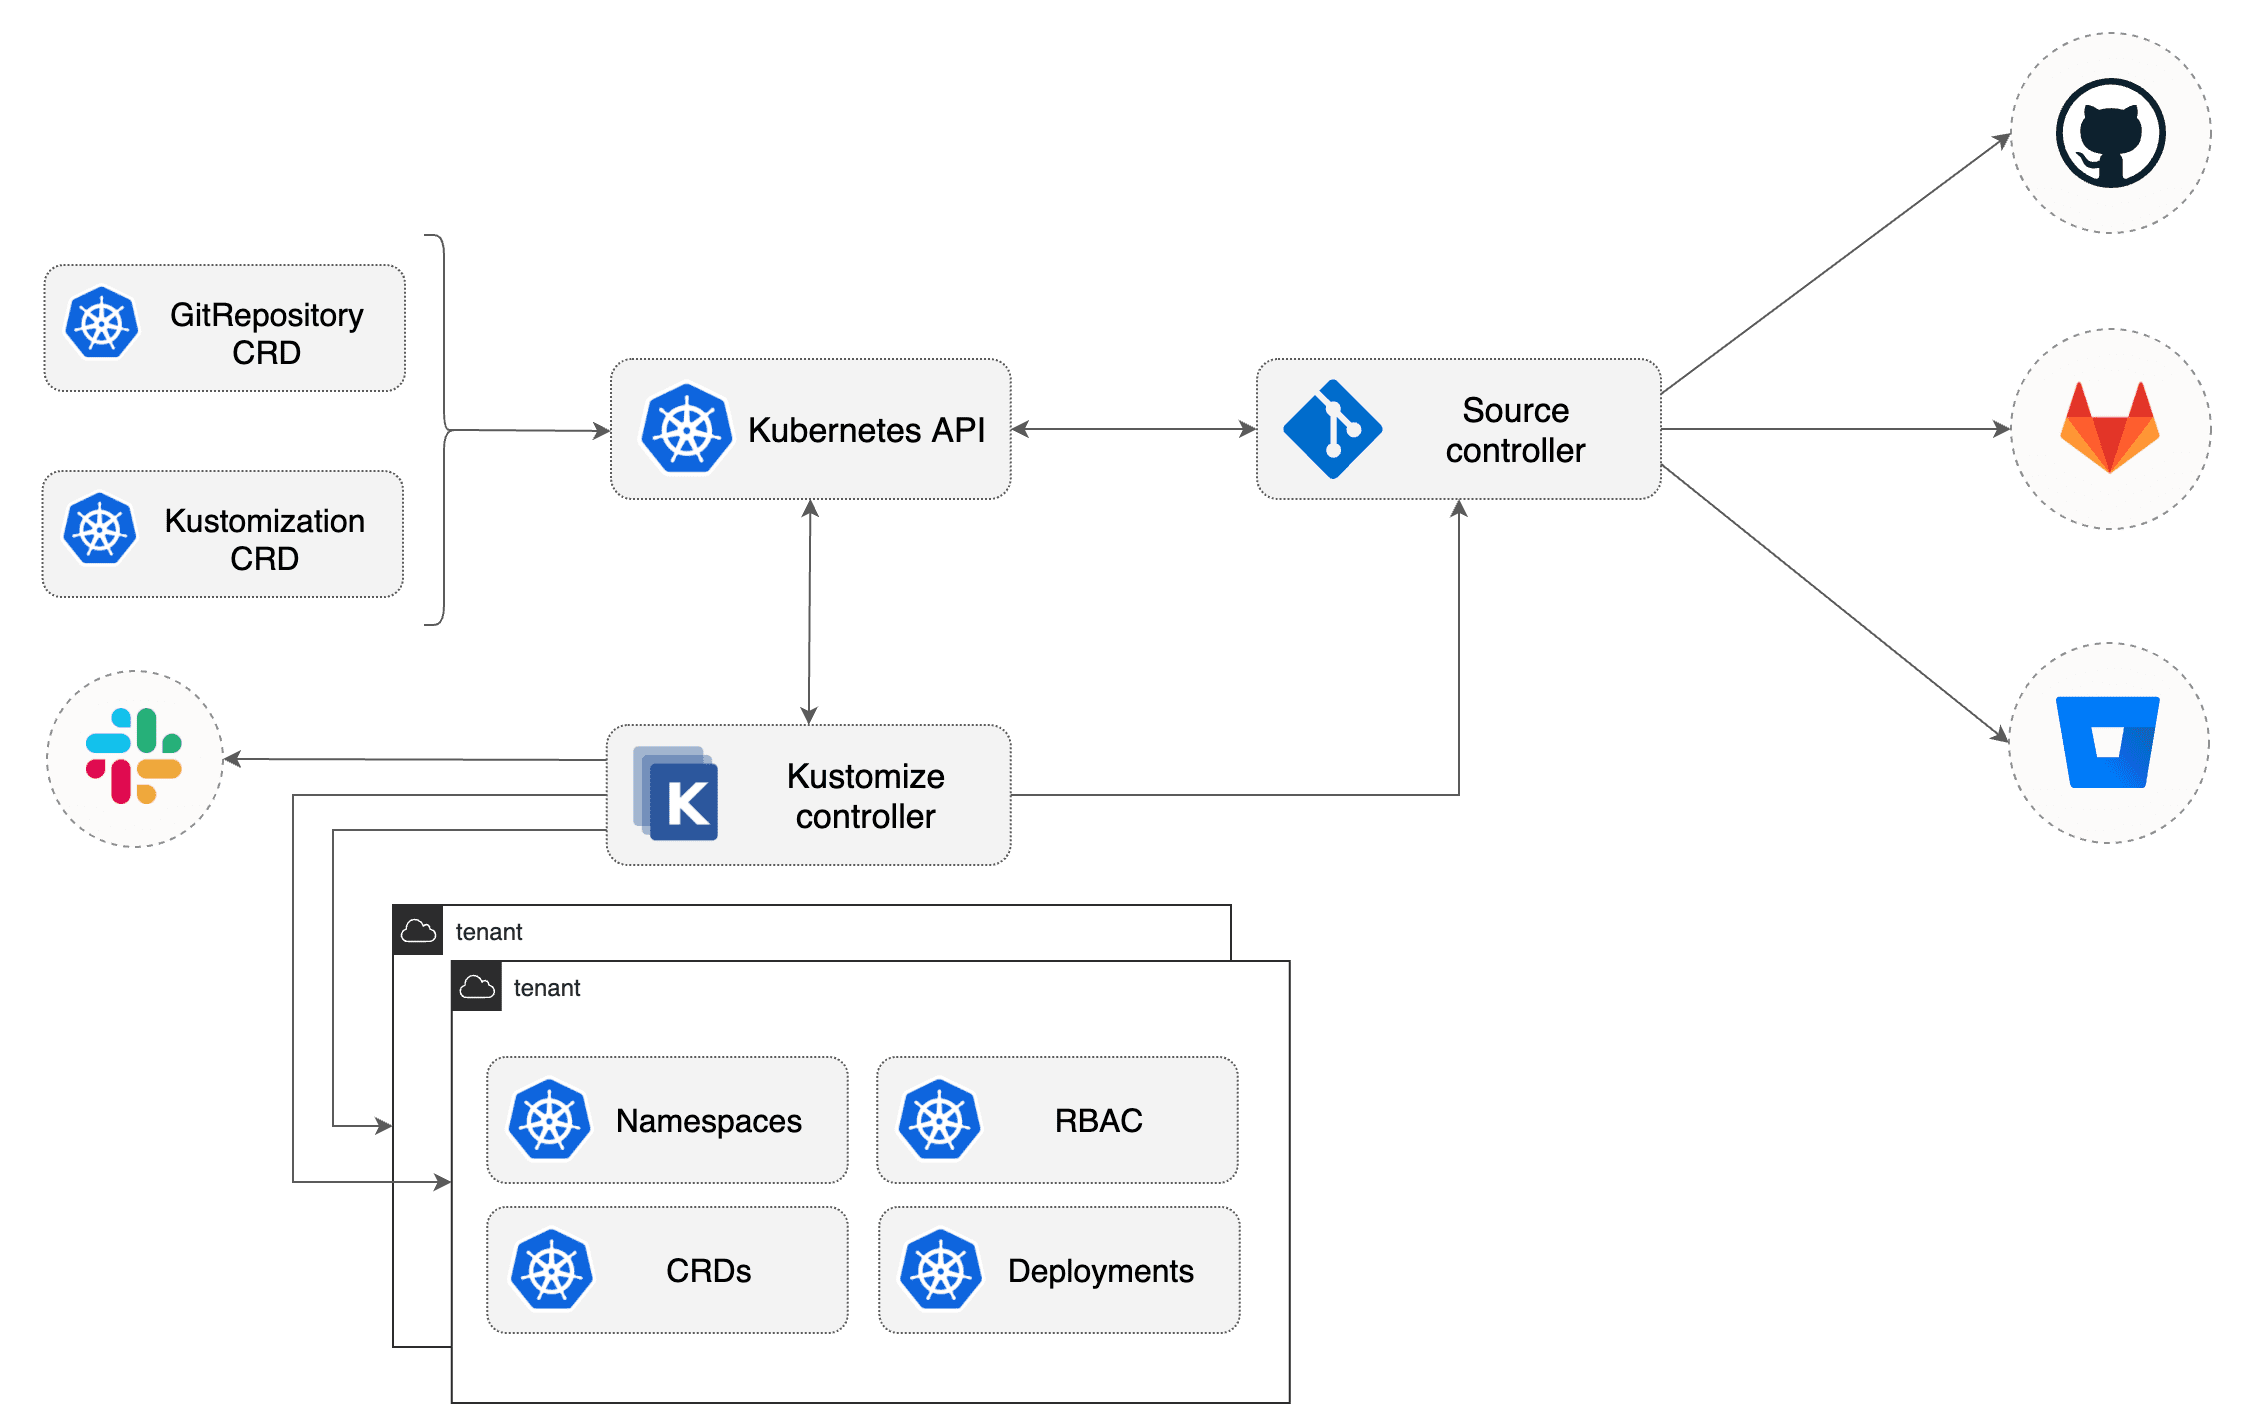
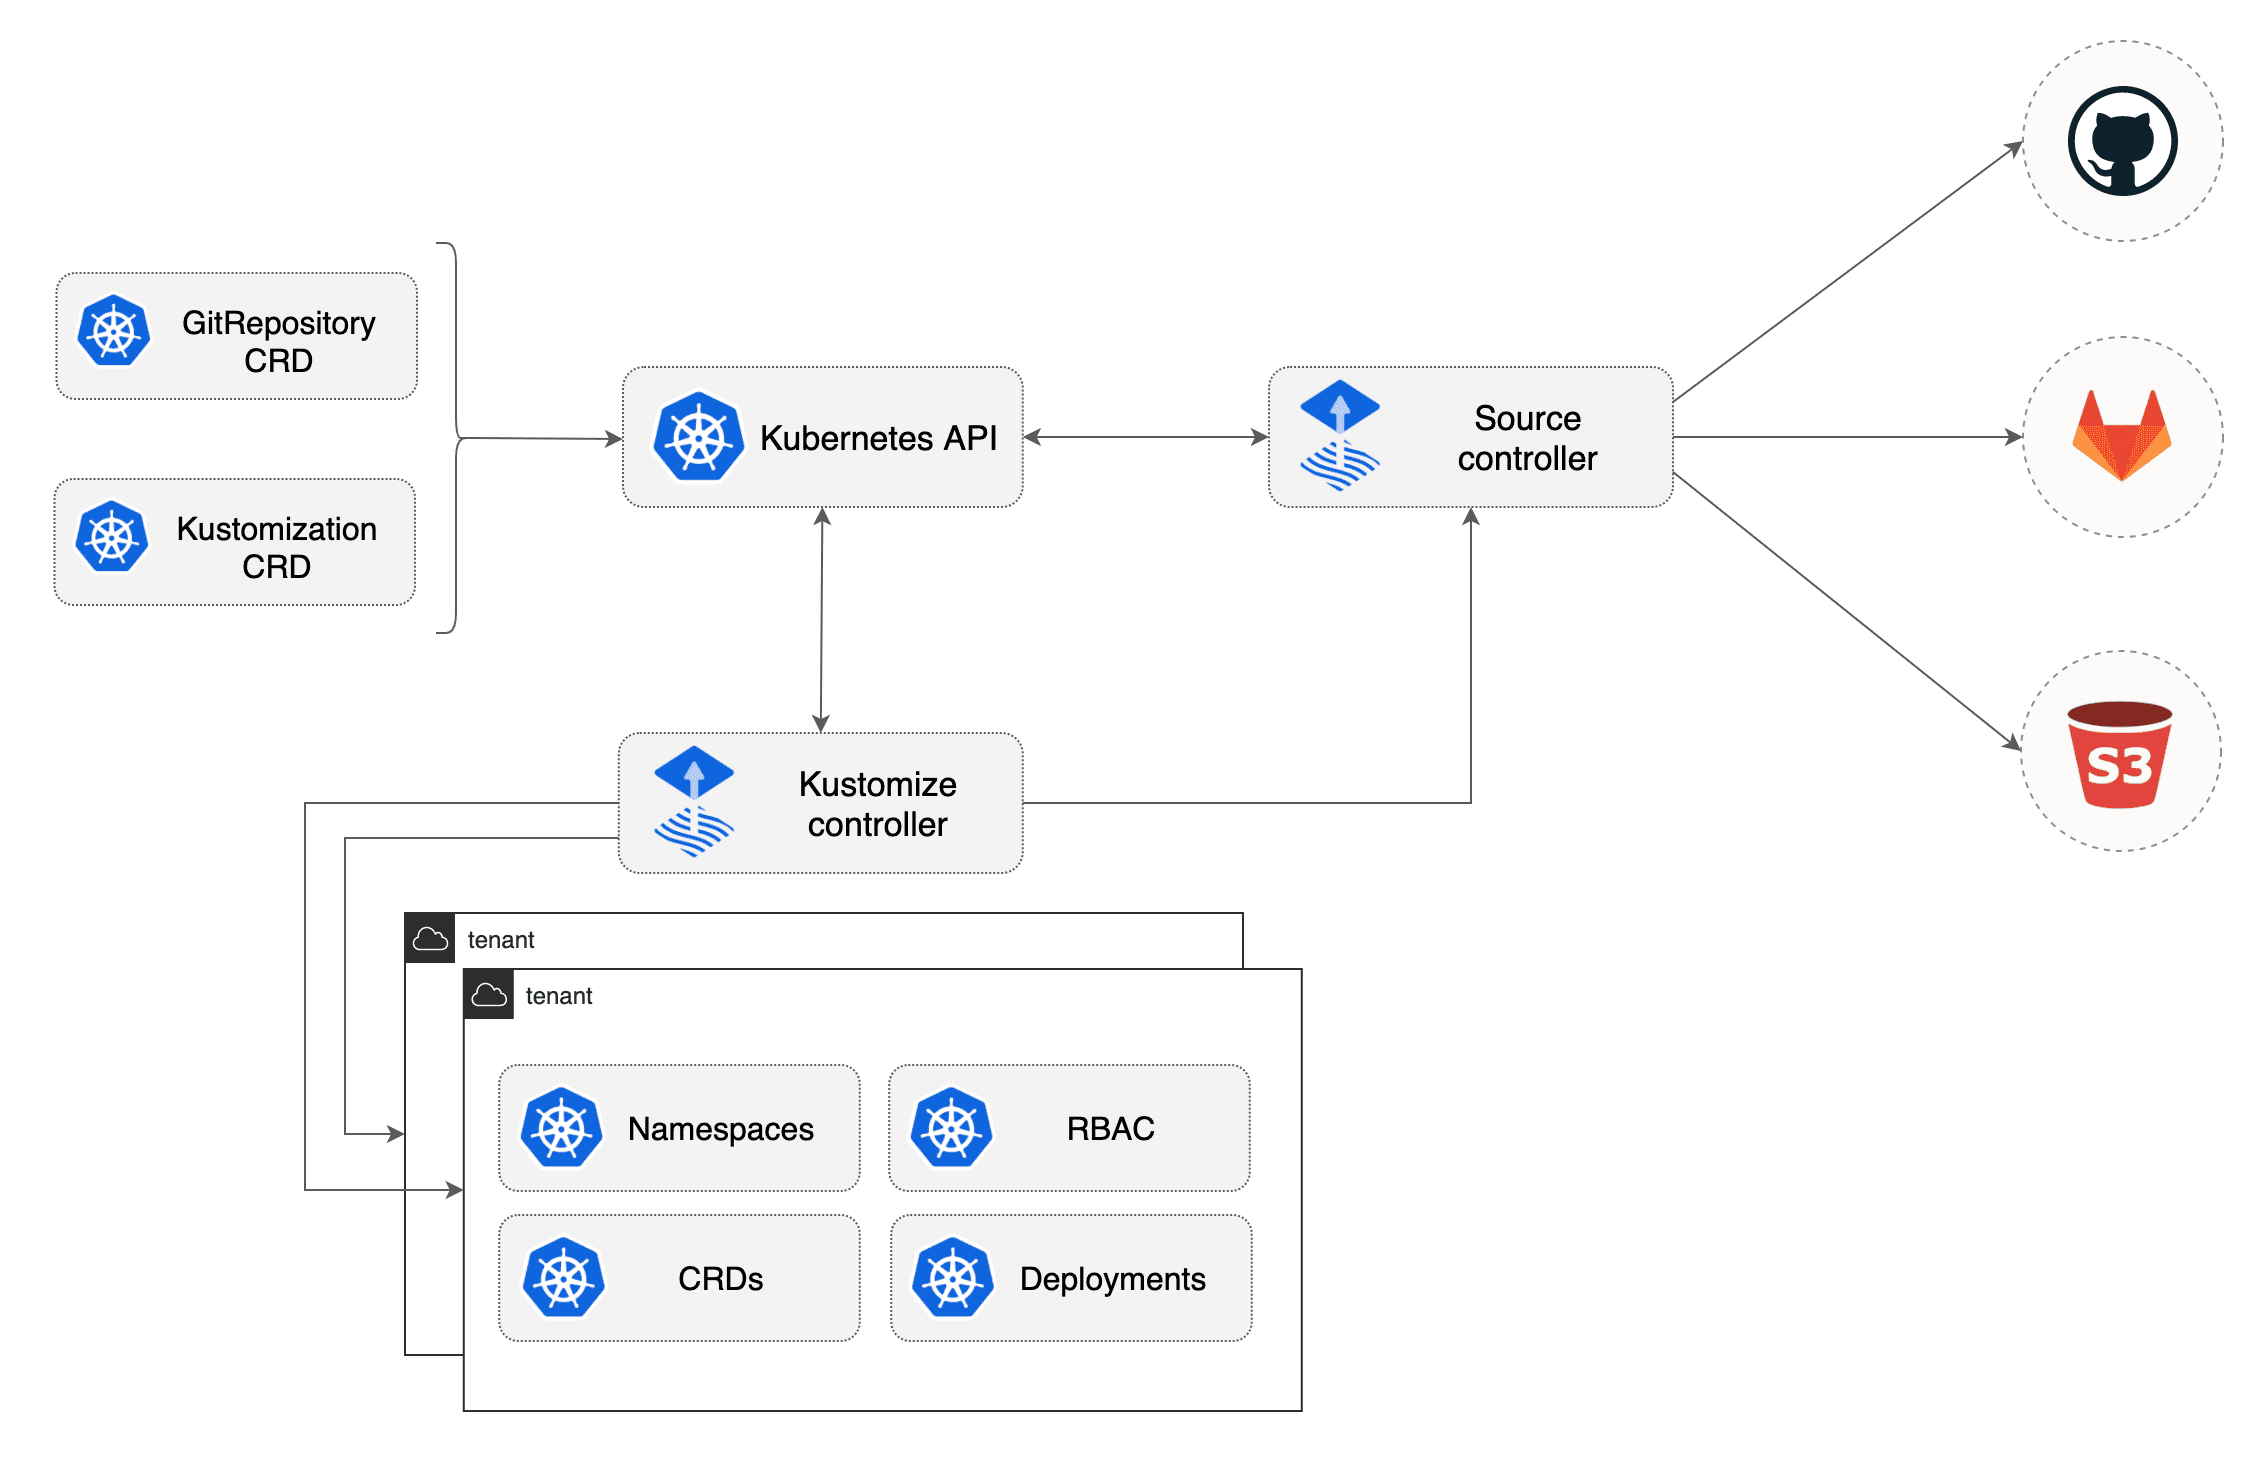
Update docs website - add notification-controller/api commands to index - move diagrams to docs website - update CRDs docs

diff --git a/README.md b/README.md
@@ -4,7 +4,7 @@
 [![report](https://goreportcard.com/badge/github.com/fluxcd/toolkit)](https://goreportcard.com/report/github.com/fluxcd/toolkit)
 [![license](https://img.shields.io/github/license/fluxcd/toolkit.svg)](https://github.com/fluxcd/toolkit/blob/main/LICENSE)
 [![release](https://img.shields.io/github/release/fluxcd/toolkit/all.svg)](https://github.com/fluxcd/toolkit/releases)
-![overview](docs/diagrams/gotk-feature.png)
+![overview](docs/diagrams/gitops-toolkit.png)
 
 The GitOps Toolkit is a set of composable APIs and specialized tools
 that can be used to build a Continuous Delivery platform on top of Kubernetes.
@@ -82,9 +82,10 @@ The GitOps Toolkit is always looking for new contributors and there are a multit
 - Check out [how to contribute](CONTRIBUTING.md) to the project
 
 ## Featured Talks
-- [4 Sep 2020 - KubeCon/CloudNativeCon Europe: Flux Deep Dive: The road to "Flux v2" and Progressive Delivery with Stefan Prodan & Hidde Beydals](https://youtu.be/8v94nUkXsxU)
-- [25 June 2020 - Cloud Native Nordics Tech Talk “Introduction to GitOps & GitOps Toolkit” with Alexis Richardson & Stefan Prodan](https://youtu.be/qQBtSkgl7tI)
-- [7 May 2020 - GitOps Days - Community Special: GitOps Toolkit Experimentation](https://youtu.be/WHzxunv4DKk?t=6521)
+- [12 Oct 2020 - Rawkode Live: Introduction to GitOps Toolkit with Stefan Prodan](https://youtu.be/HqTzuOBP0eY)
+- [4 Sep 2020 - KubeCon/CloudNativeCon Europe: The road to Flux v2 and Progressive Delivery with Stefan Prodan & Hidde Beydals](https://youtu.be/8v94nUkXsxU)
+- [25 June 2020 - Cloud Native Nordics: Introduction to GitOps & GitOps Toolkit with Alexis Richardson & Stefan Prodan](https://youtu.be/qQBtSkgl7tI)
+- [7 May 2020 - GitOps Days - Community Special: GitOps Toolkit Experimentation with Stefan Prodan](https://youtu.be/WHzxunv4DKk?t=6521)
 
 ### Upcoming Meetups
 - [19 October 2020 - GitOps Toolkit Guide Walk-through](https://www.meetup.com/GitOps-Community/events/273640196/)

diff --git a/docs/guides/notifications.md b/docs/guides/notifications.md
@@ -92,7 +92,7 @@ encountered during the reconciliation process.
 This includes kustomize build and validation errors,
 apply errors and health check failures.
 
-![error alert](../diagrams/slack-error-alert.png)
+![error alert](../_files/slack-error-alert.png)
 
 When the verbosity is set to `info`, the controller will alert if:
 
@@ -101,7 +101,7 @@ When the verbosity is set to `info`, the controller will alert if:
 * a dependency is delaying the execution
 * an error occurs
 
-![info alert](../diagrams/slack-info-alert.png)
+![info alert](../_files/slack-info-alert.png)
 
 ## Git commit status
 
@@ -111,8 +111,8 @@ commit status works, refer to the [GitHub](https://docs.github.com/en/github/col
 or [GitLab](https://docs.gitlab.com/ee/api/commits.html) documentation.
 
 The first image is an example of how it may look like in GitHub while the one below is an example for GitLab.
-![github commit status](../diagrams/github-commit-status.png)
-![gitlab commit status](../diagrams/gitlab-commit-status.png)
+![github commit status](../_files/github-commit-status.png)
+![gitlab commit status](../_files/gitlab-commit-status.png)
 
 Currently the provider will only work with Alerts for Kustomization resources as the events have to be linked with a
 specific git commit. Any other event that does not contain a commit reference will be ignored by the provider.

diff --git a/docs/index.md b/docs/index.md
@@ -15,7 +15,7 @@ events and are responsible for the reconciliation of their designated API object
     the toolkit is in an active experimentation phase.
     If you wish to take part in this quest please reach out to us on Slack or GitHub.
 
-![overview](diagrams/gotk-feature.png)
+![overview](diagrams/gitops-toolkit.png)
 
 Target features:
 

diff --git a/docs/guides/helmreleases.md b/docs/guides/helmreleases.md
@@ -245,7 +245,7 @@ apiVersion: notification.toolkit.fluxcd.io/v1beta1
       namespace: default
 ```
 
-![helm-controller alerts](../diagrams/helm-controller-alerts.png)
+![helm-controller alerts](../_files/helm-controller-alerts.png)
 
 ## Configure webhook receivers
 
